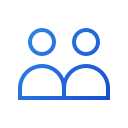
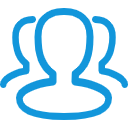
update index.vue

diff --git a/pages/index.vue b/pages/index.vue
@@ -5,22 +5,22 @@
       <!-- <img src="~/assets/image/LOGO2.png" alt=""> -->
       <HeaderCom class="mt-10 padding-15_28" :logo="require('~/assets/image/LOGO2.png')"></HeaderCom>
       <!-- 头部窄屏 -->
-      <header class="header-min">
+      <!-- <header class="header-min">
         <nuxt-link to="/">
             <img class="logo" src="https://codemart.com/images/mart-logo-white.png" alt="logo">
         </nuxt-link>
         <img src="~/assets/image/icon-list.png">
-      </header>
+      </header> -->
 
       <!-- banner -->
       <div class="view-box">
 
         <!-- 显示第一个banner -->
-        <div class="view-one" v-show="index === 1">
+        <div class="view-one wrap" v-show="index === 1">
           <div class="index-top">
             <div class="top-motto-container">
               <p class="top-motto">
-                互联网软件外包服务平台
+                软件服务平台
               </p>
             </div>
             <div class="btm-motto-container mt-10">
@@ -29,12 +29,12 @@
               </p>
             </div>
           </div>
-          <div class="banner-wrap">
+          <!-- <div class="banner-wrap">
             <img class="banner-img" src="~/assets/image/haoshuang.png" alt="">
-          </div>
+          </div> -->
         </div>
 
-        <div class="view-two" v-show="index === 2">
+        <div class="view-two wrap" v-show="index === 2">
           <div class="index-top">
             <div class="top-motto-container">
               新版阶段划分
@@ -43,9 +43,9 @@
             </div>
             <a class="start-button fs-14 mt-30">了解详情</a>
           </div>
-          <div class="banner-wrap">
+          <!-- <div class="banner-wrap">
             <img src="~/assets/image/banner-2.png" alt="">
-          </div>
+          </div> -->
         </div>
 
         <!-- 切换banner -->
@@ -56,7 +56,7 @@
     </div>
 
     <!-- 项目信息 -->
-    <div class="cm-nums-out">
+    <!-- <div class="cm-nums-out">
       <div class="wrap cm-nums">
         <div class="cm-num-box">
           <div class="cm-countup">548,310,503</div>
@@ -71,7 +71,7 @@
           <div class="cm-num-desc">注册开发者</div>
         </div>
       </div>
-    </div>
+    </div> -->
 
     <!-- 功能选项 -->
     <div class="development-option-wrap wrap">
@@ -114,7 +114,7 @@
         <div class="cm-info-wrap wrap">
           <div class="cm-info-left">
             <p class="title">我要找全面的软件开发服务</p>
-            <p class="desc c-bababa fs-16">想要更棒的项目协作体验,更高的交付质量,更全面的服务保障吗?试试"英选-码市"软件定制整包服务</p>
+            <p class="desc c-bababa fs-16">想要更棒的项目,更高的交付质量,更全面的服务保障吗?那就选择"码s"</p>
             <div class="detail-list mt-50">
               <div class="detail-item">
                 <img class="icon-small" src="~/assets/image/icon-info.png">
@@ -136,7 +136,7 @@
             <div class="large-btn them-light fs-18">了解整包服务</div>
           </div>
           <div class="cm-info-right">
-            <img src="~/assets/image/server.png">
+            <img src="~/assets/image/server.png" class="banner-radius">
           </div>
         </div>
     </div>
@@ -168,13 +168,14 @@
     <!-- 开始寻找人才 -->
     <div class="begin-wrap">
         <div class="wrap begin">
-          <div class="begin-left">
-            <img src="~/assets/image/banner-find.png">
-          </div>
+          
           <div class="begin-right">
-            <p class="title">完成您的需求</p>
+            <p class="title">高效完成您的需求</p>
             <p class="desc c-bababa fs-16 mt-15">快人一步,高效实现。</p>
             <div class="large-btn them-light fs-18 mt-30">发布需求</div>
+          </div>
+          <div class="begin-left">
+            <img src="~/assets/image/banner-find.png" class="banner-radius">
           </div>
         </div>
     </div>
@@ -182,10 +183,12 @@
     <!-- 查找软件开发任务 find-dev-task -->
     <div class="dev-task-wrap">
       <div class="dev-task wrap">
-        <p class="title text-center">我们的业务范围</p>
+        <p class="title text-center">业务范围</p>.
         <div class="dev-task-list mt-50">
           <div class="dev-task-item shadow" v-for="item in businessList" :key="item.id">
-            <img :src="item.img">
+            <div class="task-item-img">
+              <img :src="item.img">
+            </div>
             <p class="text-center fs-18">{{item.label}}</p>
           </div>
         </div>
@@ -220,20 +223,8 @@
     </div>
 
     <!-- 开启自由之路 -->
-    <div class="free-way-wrap">
-      <div class="free-way wrap">
-        <div class="free-way-left">
-          <p class="title cl-fff">开启你的自由职业之路</p>
-          <p class="desc cl-fff mt-20 fs-16">发挥擅长技能，弹性安排工作时间，在任何地方工作，灵活选择全职或兼职，拓宽专业技能，发展兴趣爱好......最重要的是还能赚钱，来码市，帮你实现。</p>
-          <div class="large-btn them-light fs-18 mt-30">开启自由职业之路</div>
-        </div>
-        <div class="free-way-right">
-          <img src="~/assets/image/free.png">
-        </div>
-      </div>
-    </div>
 
-    <!--为什么选择码市  -->
+    <!--为什么选择码s  -->
     <div class="check-us-wrap">
       <div class="check-us wrap">
         <p class="title text-center">他们为什么选择码市</p>
@@ -262,9 +253,9 @@
     <!-- 加入我们 -->
     <div class="join-us-wrap">
       <div class="join-us wrap">
-        <p class="title text-center fs-46 cl-fff">来码市，找人才/任务快人一步</p>
+        <p class="title text-center fs-46 cl-fff">请加入码s</p>
         <div class="btn-wrap mt-50">
-          <div class="large-btn them-low fs-18">加入码市</div>
+          <div class="large-btn them-low fs-18">加入码s</div>
         </div>
       </div>
     </div>
@@ -282,12 +273,12 @@
             <div class="about-info-list fs-14 c-bababa">
               <div class="about-info-item">码s介绍</div>
               <div class="about-info-item">如何发布项目需求?</div>
-              <div class="about-info-item">fsdaopjf</div>
+              <div class="about-info-item">15836153616</div>
             </div>
             <div class="about-info-list fs-14 c-bababa">
               <div class="about-info-item">码s案例</div>
               <div class="about-info-item">如何为发布的项目需求定价?</div>
-              <div class="about-info-item">2014873253@qq.com</div>
+              <div class="about-info-item">814151789@qq.com</div>
             </div>
             <div class="about-info-list fs-14 c-bababa">
               <div class="about-info-item">内容中心</div>
@@ -353,42 +344,42 @@ import HeaderCom from '~/components/HeaderCom.vue';
   const businessList = [
     {
       id:1,
-      img:require('~/assets/image/app.png'),
+      img:require('~/assets/image/icon-app.png'),
       label:'APP开发',
     },
     {
       id:2,
-      img:require('~/assets/image/app.png'),
+      img:require('~/assets/image/icon-program.png'),
       label:'小程序开发',
     },
     {
       id:3,
-      img:require('~/assets/image/app.png'),
+      img:require('~/assets/image/icon-web.png'),
       label:'Web网站开发',
     },
     {
       id:4,
-      img:require('~/assets/image/app.png'),
+      img:require('~/assets/image/icon-html5.png'),
       label:'前端开发',
     },
     {
       id:5,
-      img:require('~/assets/image/app.png'),
+      img:require('~/assets/image/icon-lb.png'),
       label:'后端开发',
     },
     {
       id:6,
-      img:require('~/assets/image/app.png'),
+      img:require('~/assets/image/icon-product.png'),
       label:'产品原型设计',
     },
     {
       id:7,
-      img:require('~/assets/image/app.png'),
+      img:require('~/assets/image/icon-test.png'),
       label:'软件测试',
     },
     {
       id:8,
-      img:require('~/assets/image/app.png'),
+      img:require('~/assets/image/icon-ui-cn.png'),
       label:'UI设计',
     },
   ]
@@ -413,7 +404,7 @@ export default {
 }
 </script>
 <style scoped>
-@media screen and (max-width:1000px) {
+/* @media screen and (max-width:1000px) {
   .header-max {
     display: none;
   }
@@ -423,7 +414,7 @@ export default {
   .header-min {
     display: none;
   }
-}
+} */
 
 .padding-15_28{
   padding: 15px 28px;
@@ -458,15 +449,15 @@ export default {
 }
 
 .view-one {
-  display: grid;
-  grid-template-columns: auto 1fr;
   padding: 91px 0;
+  background: url('~/assets/image/haoshuang.png');
+  background-size: 100% 100%;
 }
 
 .view-two {
-  display: grid;
-  grid-template-columns: 1fr 1fr;
   padding: 91px 0;
+  background: url('~/assets/image/banner-2.png');
+  background-size: 100% 100%;
 }
 
 .view-two,.view-one{
@@ -803,28 +794,16 @@ export default {
   cursor: pointer;
 }
 
-.free-way-wrap{
-  background: #28384E;
-}
 
-.free-way{
-  padding: 100px 0;
-  display: grid;
-  grid-template-columns: repeat(2,1fr);
-  gap:0 100px;
-}
 
 .cl-fff{
   color: #fff;
 }
 
-.free-way .free-way-left .desc{
-  line-height: 200%;
+.banner-radius{
+  border-radius: 5px;
 }
 
-.free-way .free-way-left{
-  padding: 60px 0;
-}
 
 .join-us-wrap{
   background: url("~/assets/image/bg.png");
@@ -924,5 +903,15 @@ export default {
 
 .banner-img{
   width: 100%;
+}
+
+.task-item-img{
+  height: 140px;
+  display: flex;
+  align-items: center;
+  justify-content: center;
+}
+.task-item-img img{
+  width: 64px;
 }
 </style>

diff --git a/components/HeaderCom.vue b/components/HeaderCom.vue
@@ -6,9 +6,6 @@
             </nuxt-link>
             <div class="nav-list">
                 <div class="nav-item">
-                    <a>找项目</a>
-                </div>
-                <div class="nav-item">
                     <a href="/square/SquareIndex"> 模板广场</a>
                     <svg class="new-tip" xmlns="http://www.w3.org/2000/svg" width="36" height="14" viewBox="0 0 36 14">
                         <g fill="none">
